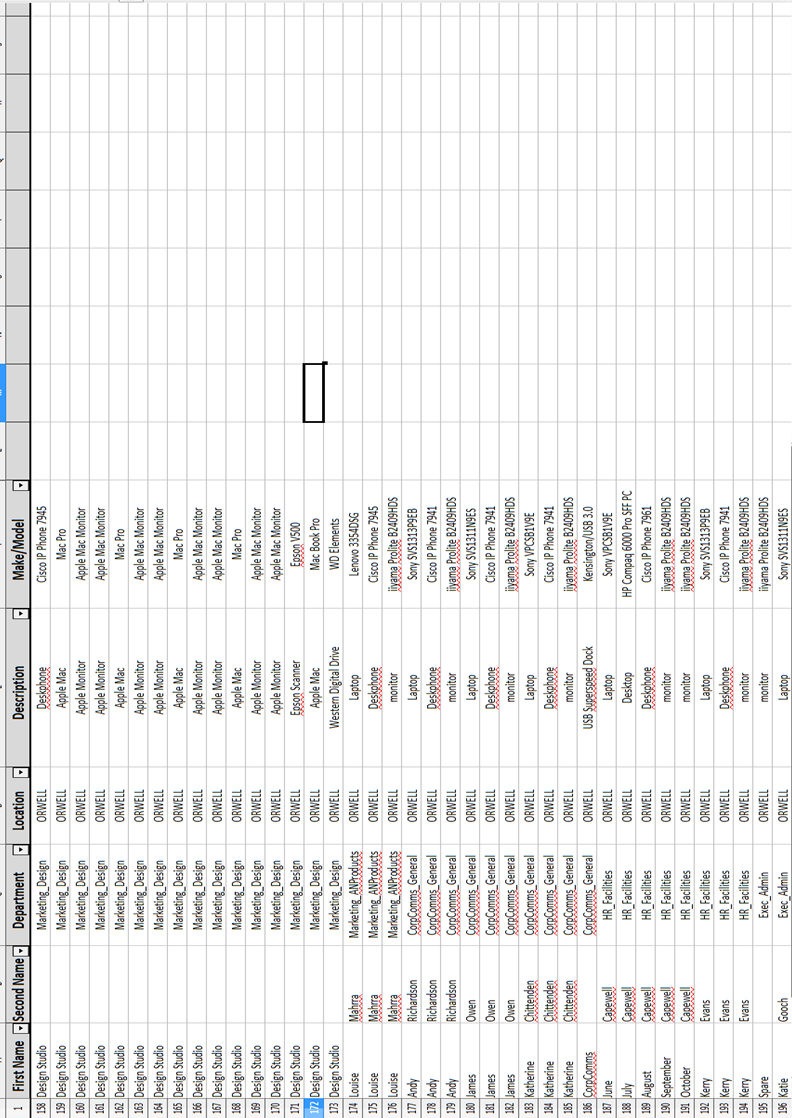
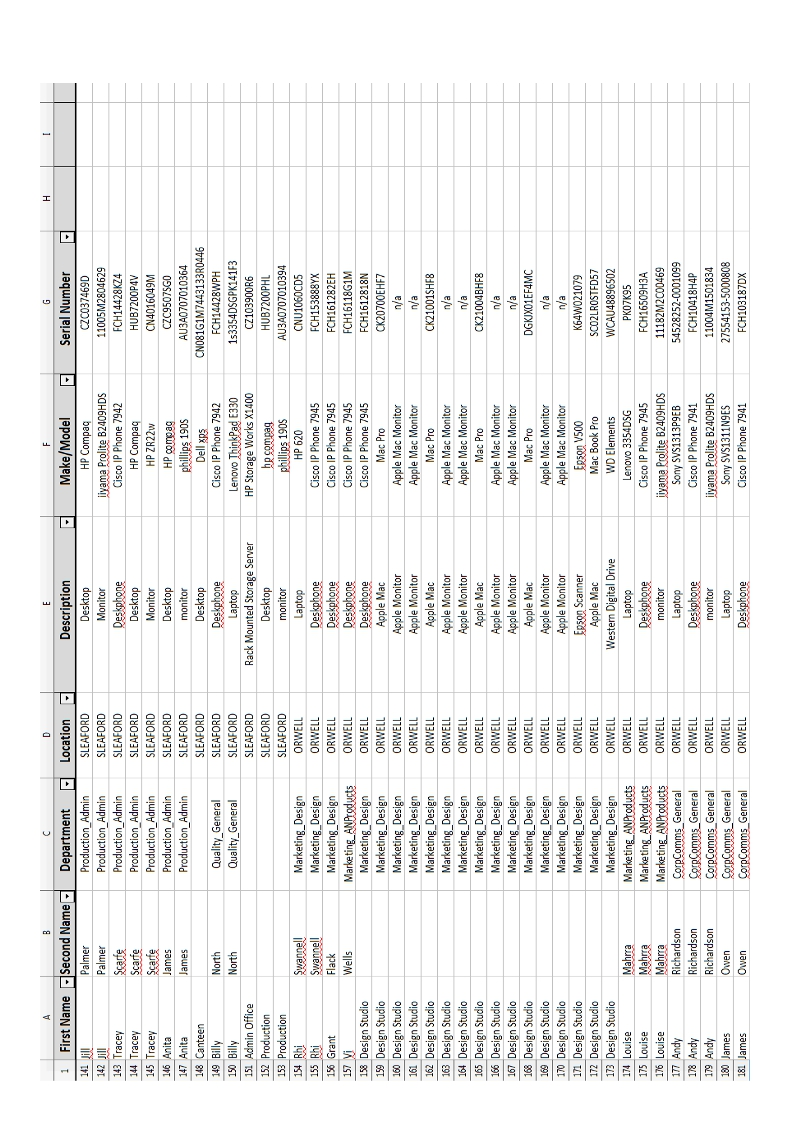
New Input/output and Data Sources done.

diff --git a/Coursework/Analysis/analysis.tex b/Coursework/Analysis/analysis.tex
@@ -39,7 +39,7 @@ Another downside to the current system is that it is not available online to be 
 
 \subsubsection{Data sources and destinations}
 
-In the current system there are three data sources used, the colleague, the line manager and the IT staff. Colleagues will fill out a physical form with information about which hardware device they would like to be assigned to them along with their name. The form will then be given to their specific line manager who will sign the form to say whether they authorize the hardware request or not. The line manager will give this form to a member of the IT staff who will enter the data onto the Excel spreadsheet along with the hardware details (such as cost and serial number). The spreadsheet now contains all the information about which colleague has which hardware device assigned to them.
+In the current system there are three data sources used, the colleague, the line manager and the IT staff. Colleagues will fill out a physical form with information about which hardware device they would like to be assigned to them along with their name. The form will then be given to their specific line manager who will sign the form to say whether they authorize the hardware request or not. The line manager will give this form to a member of the IT staff who will enter the data onto the Excel spreadsheet. A member of the IT staff will then phone the company's supplier and find out if the item is in stock, how much it will cost, the newest device they have available and the estimated delivery time. The company will say which hardware devices they are currently giving employees as everyone will have the same phone (for example iPhone 5's) it is not for the IT staff to decide. The IT staff member may choose to write the estimated delivery time down somewhere incase the colleague who requested it asks how long it will take. The final step is for the IT staff to add all the new information from the supplier into the database. The spreadsheet now contains all the information about which colleague has which hardware device assigned to them.
 
 \begin{center}
 \begin{tabular}{|p{3cm}|p{3cm}|p{4cm}|p{3cm}|}
@@ -54,9 +54,14 @@ Colleague                             & Make                               & iPh
 Form                                  & Form Details                       & John, Smith, Phone, iPhone                 & Line Manager                              \\ \hline
 Line Manager                          & Signature                          & Tim Richardson                                     & Form                                      \\ \hline
 Form                                  & Form Details Including Signature   & John, Smith, Phone, iPhone,Financing,Orwell, Tim Richardson & IT Staff Member                           \\ \hline
-IT Staff Manager                      & Form Details Including Signature   & John, Smith, Phone, iPhone,Financing ,Orwell, Tim Richardson & Excel Spreadsheet                                   \\ \hline
+IT Staff Member                      & Form Details Including Signature   & John, Smith, Phone, iPhone,Financing ,Orwell, Tim Richardson & Excel Spreadsheet                                   \\ \hline
+IT Staff Member 	&Hardware Device Request & iPhone & Supplier 												\\ \hline
+Supplier & Devices Available & iPhone 6 Plus & IT Staff Member \\ \hline
+Supplier & Cost & £400 &IT Staff Member \\ \hline
+Supplier & Estimated Delivery Time & 10 Working Days & IT Staff Member \\ \hline
+IT Staff Member & Estimated Delivery Time & 10 Working Days & Notes (on computer or diary) \\ \hline
 IT Staff Member                             & Model                              & 6 Plus                                             & Excel Spreadsheet                                       \\ \hline
-IT Staff Member                       & Cost                              & Â£400                                               & Excel Spreadsheet        \\ \hline
+IT Staff Member                       & Cost                              & £400                                               & Excel Spreadsheet        \\ \hline
 IT Staff Member                       & Serial Number                      & 71624                                          &  Excel Spreadsheet           \\ \hline
 IT Staff Member                       & Purchase Date                      & 11/02/2015                                         &  Excel Spreadsheet           \\ \hline
 \end{tabular}
@@ -129,14 +134,25 @@ IT Staff Member                       & Purchase Date                      & 11/
 
 \begin{figure}[H]
 \includegraphics[width=.9\textwidth,height=.9\textheight,keepaspectratio]{HardwareRequestForm.jpg}
-\caption{\textbf{The Hardware Request Form}:This document has only been filled in with the required details to be stored on the system. The rest of the details are not necessary to be stored in the hardware allocation system.} \label{HardwareRequestForm}
+\caption{\textbf{The Hardware Request Form}:This document has only been filled in with the required details to be stored on the system. The rest of the details are not necessary to be stored in the hardware allocation system. Att the bottom of the form the signature from the line manager is shown, this is therefore an authorised form.} \label{HardwareRequestForm}
 \end{figure}
 
 \begin{figure}[H]
-\includegraphics[width=.9\textwidth,height=.9\textheight,keepaspectratio]{Spreadsheet.jpg}
-\caption{\textbf{The Hardware Allocation Spreadsheet}: As shown above the spreadsheet is not properly used by staff. Wrong data has been entered in the name box (see cell 172) and altogether the spreadsheet is messy. However it does store the necessary data for each person with their hardware devices.} \label{Spreadsheet}
+\includegraphics[width=.9\textwidth,height=.9\textheight,keepaspectratio]{Spreadsheet2.jpg}
+\caption{\textbf{The Hardware Allocation Spreadsheet}: As shown above the spreadsheet is not properly used by staff. Wrong data has been entered in the name box (see cell 172) and altogether the spreadsheet is messy. The comments section on the spreadsheet displays a basic statement of what the hardware device is, for instance "HP ZR22w" (cell F 145) is classed as a "Monitor". A good feature of this spreadsheet is the dropdown arrows next to the column headings, from here you can sort data into ascending or decending order (alphabetical order) and choose to hide or show certain fields. Overall the spreadsheet does store the necessary data for each person with their hardware devices but needs to be a lot clearer.} \label{Spreadsheet}
 \end{figure}
 
+\begin{figure}[H]
+\includegraphics[width=.9\textwidth,height=.9\textheight,keepaspectratio]{LeaveOfWork.jpg}
+\caption{When someone leaves the company they are required to give back all hardware devices. There is no official form or signature required for this so in most cases their line manager will simply write it down as shown above. After they have left they can be removed from the spreadsheet and their hardware device will be reallocated to someone else getting hired.} \label{LeaveOfWork}
+\end{figure}
+
+\begin{figure}[H]
+\includegraphics[width=.9\textwidth,height=.9\textheight,keepaspectratio]{OrdersPlaced.jpg}
+\caption{When the IT staff have ordered new hardware devices from the company's distributer it may be handy to write down when the delivery will be coming. Colleagues may become impatient so it is good to have a date. They may also choose to write down how many items are being delivered incase the wrong amount arrive.} \label{OrdersPlaced}
+\end{figure}
+
+There is no signature or form when the staff member is given the actual hardware device, all staff members of the same status will get similar hardware devices and they can either accept it or use their own. If rejected, the device is allocated to somebody else.
 
 \subsection{The proposed system}
 

diff --git a/Coursework/coursework.tex b/Coursework/coursework.tex
@@ -5,8 +5,8 @@
 \include{settings}
 \begin{document}
 \title{Computing Coursework - Hardware Allocation Database}
-\author{Josh Dingri}
-\lhead{Josh Dingri}
+\author{Joshua Dingri}
+\lhead{Joshua Dingri}
 \chead{Candidate No. 4311}
 \rhead{Centre No. 22151}
 \maketitle
